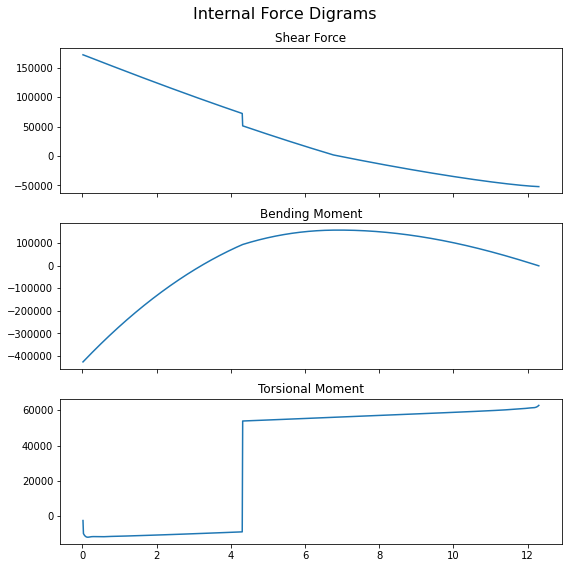
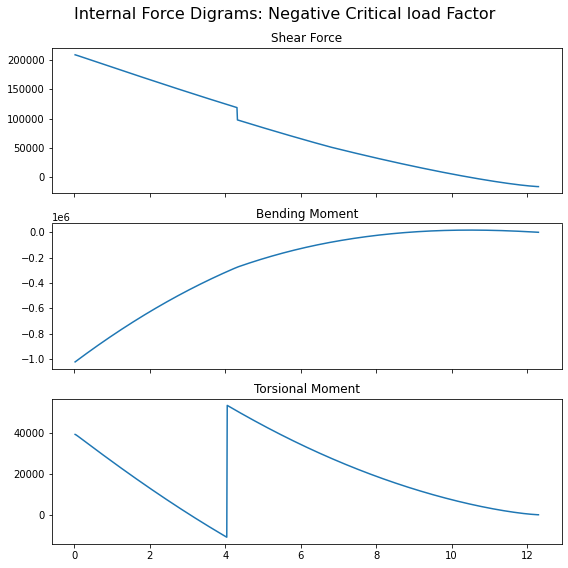
more diagrams

diff --git a/WP4/WP4_1 Python/WP4_XFLR5_Raw_Data.py b/WP4/WP4_1 Python/WP4_XFLR5_Raw_Data.py
@@ -4,22 +4,37 @@ import matplotlib.pyplot as plt
 from scipy import interpolate
 from scipy.integrate import simps, cumtrapz
 #exec(open("Aircraft.py").read())
+#print(Wingspan) #testing works, but find a better implementation method. Ignore use of parametric python file for now.
+
+#constants
+g = 9.80665
+#wing
+b = 24.63
+taper = 0.4
+S_wing = 76.29
 
 #sweep angle calculation
-b = 24.63
 Sw_ca = np.arctan( np.tan (25 / 180 * np.pi ) -  ( 0.468 * ( 2 * 4.41 ) / b ) * ( 1 - 0.4 ) )
 
-#dynamic pressure and FLIGHT CONDITIONS
-v_cruise = 243 #this may change depending on critical loading case
-rho_cruise = 0.3678 #this may change depending on critical loading case
+#aircraft weight
+W_pl = 9800*g
+W_oe = 20175*g
+W_mto = 33139*g
+W_f = W_mto - W_oe-W_pl
+W_ac_lst = [W_oe, W_mto, W_oe+W_pl]
+
+
+###----HARD-CODE------ ### (START)
+W_ac = W_ac_lst[1] #(0,1,2) #aircraft weight #FIXED
+is_fuel = True #(True, False) #fuel in wing boolean #FIXED
+v_cruise = 200 #velocity #this may change depending on critical loading case #FIXED: LOWEST speed that gives 2.5
+rho_cruise =1.225  #density #this may change depending on critical loading case
+###----HARD-CODE------ ### (END)
+
+
+#dynamic pressure
 q_cruise = 0.5 * rho_cruise * v_cruise ** 2 
 #q_cruise = 0.5 * rho_cruise * v_cruise ** 2 * np.cos( Sw_ca )  #sweep does not affect dynamic pressure
-
-#fuel in wing boolean:
-is_fuel = True
-
-
-#print(Wingspan) #testing works, but find a better implementation method. Ignore use of parametric python file for now.
 
 #import XFLR5 data for AOA 0 and 10 deg
 aero_data_AOA_0 = np.genfromtxt('MainWing_a=0.00_v=10.00ms.txt', dtype = float, skip_header=2)
@@ -67,20 +82,14 @@ def interpolation(xlst_init,ylst_init,Cllst_init, Cdlst_init, Cmlst_init):
 
 
 #aerodynamics loads (dimensional)
-def aero_loads(xlst, ylst,Cllst, Cdlst, Cmlst):
-    g = 9.80665
+def aero_loads(xlst, ylst,Cllst, Cdlst, Cmlst):    
     
-    #wing
-    taper = 0.4
-    b = 24.63
-    
-    #fuel weight
-    W_fuel_tot =  12964*g
     #based on ref data, approx. 30% of fuel weight is stored in wing (from root to 0.55/2 spar: consider inner tank only)
     y_fuel = b /2*0.55
     
+    #fuel weight
     if is_fuel:
-        W_fuel_half_wing = 0.3*W_fuel_tot
+        W_fuel_half_wing = 0.3*W_f
     else:
         W_fuel_half_wing = 0
         
@@ -208,23 +217,18 @@ def torsion(ylst, xlst):
 xlst_0,ylst_0,Cllst_0, Cdlst_0, Cmlst_0 = aero_coefficient(aero_data_AOA_0)
 xlst_10,ylst_10,Cllst_10, Cdlst_10, Cmlst_10 = aero_coefficient(aero_data_AOA_10)
 
+#interpolation of above aero coefficients (AOA=0, 10)
+xlst_0,ylst_0,Cllst_0, Cdlst_0, Cmlst_0 = interpolation(xlst_0,ylst_0,Cllst_0, Cdlst_0, Cmlst_0)
+xlst_10,ylst_10,Cllst_10, Cdlst_10, Cmlst_10 = interpolation(xlst_10,ylst_10,Cllst_10, Cdlst_10, Cmlst_10)
+
 #add form drag
 Cd_0_form = 0.01
 Cd_10_form = 0.02
 Cdlst_0 += Cd_0_form
 Cdlst_0 += Cd_10_form
 
-#interpolation of above aero coefficients (AOA=0, 10)
-xlst_0,ylst_0,Cllst_0, Cdlst_0, Cmlst_0 = interpolation(xlst_0,ylst_0,Cllst_0, Cdlst_0, Cmlst_0)
-xlst_10,ylst_10,Cllst_10, Cdlst_10, Cmlst_10 = interpolation(xlst_10,ylst_10,Cllst_10, Cdlst_10, Cmlst_10)
-
-
-#lists for aerodynamic loads (AOA=0, 10)
-Llst_0,Dlst_0,Mlst_0, Fzreslst_0,Ltot_0, Dtot_0, Mtot_0 = aero_loads(xlst_0, ylst_0,Cllst_0, Cdlst_0, Cmlst_0)
-Llst_10,Dlst_10,Mlst_10, Fzreslst_10, Ltot_10, Dtot_10, Mtot_10 = aero_loads(xlst_10, ylst_10,Cllst_10, Cdlst_10, Cmlst_10)
-
 #design lift coefficient distribution
-Cltot_des = 0.372976647
+Cltot_des = 1.1*W_ac/(q_cruise*S_wing)#0.372976647 #not a constant!
 Cltot_0 = 0.264851185
 Cltot_10 = 1.324255925
 
@@ -256,6 +260,10 @@ alpha_des_negative = np.arcsin((np.sum(Cllst_des*N_z_negative)-np.sum(Cllst_0))/
 
 
 #print(np.rad2deg(alpha_des_positive), np.rad2deg(alpha_des_negative)) #testing
+
+#lists for aerodynamic loads (AOA=0, 10)
+Llst_0,Dlst_0,Mlst_0, Fzreslst_0,Ltot_0, Dtot_0, Mtot_0 = aero_loads(xlst_0, ylst_0,Cllst_0, Cdlst_0, Cmlst_0)
+Llst_10,Dlst_10,Mlst_10, Fzreslst_10, Ltot_10, Dtot_10, Mtot_10 = aero_loads(xlst_10, ylst_10,Cllst_10, Cdlst_10, Cmlst_10)
 
 #lists for aerodynamic loads (desgin point)
 Llst_des,Dlst_des,Mlst_des, Fzreslst_des,Ltot_des, Dtot_des, Mtot_des = aero_loads(xlst_0, ylst_0,Cllst_des, Cdlst_des, Cmlst_des)

diff --git a/WP4/WP4_1 Python/WP4_1_main.py b/WP4/WP4_1 Python/WP4_1_main.py
@@ -3,7 +3,6 @@ import matplotlib.pyplot as plt
 from WP4_XFLR5_Raw_Data import xlst_0, ylst_0, Llst_des, Llst_negcrit, Llst_poscrit, Dlst_des, Dlst_negcrit, Dlst_poscrit, Fzreslst_des, Fzreslst_poscrit, Fzreslst_negcrit,Ltot_des, Ltot_poscrit, Ltot_negcrit, alpha_des, alpha_des_negative, alpha_des_positive
 from CG_wingboxFRANK import CG_xList, CG_zList
 
-
 #shear
 Vres_des=shear(ylst_0,Llst_des, Fzreslst_des, Ltot_des)
 Vres_poscrit=shear(ylst_0,Llst_poscrit, Fzreslst_poscrit, Ltot_poscrit)
@@ -21,7 +20,7 @@ TMres_poscrit=torsion(xlst_0, alpha_des_positive, Llst_poscrit, Dlst_poscrit, yl
 TMres_negcrit=torsion(xlst_0, alpha_des_negative, Llst_negcrit, Dlst_negcrit, ylst_0, CG_xList, CG_zList)
 
 
-def internal_plots(ylst,Vlst, BMlst, TMlst):
+def internal_plots(ylst,Vlst, BMlst, TMlst, title):
     
     #print('Total lift is', Ltot, ' ' ,'Total drag is', Dtot, ' ' , 'Total moment is', Mtot, ' ' ,sep ='\n')
 
@@ -32,7 +31,7 @@ def internal_plots(ylst,Vlst, BMlst, TMlst):
     axs[1].set_title('Bending Moment')
     axs[2].plot(ylst,TMlst)
     axs[2].set_title('Torsional Moment')
-    fig.suptitle('Internal Force Digrams', fontsize=16)
+    fig.suptitle('Internal Force Digrams: '+title, fontsize=16)
     fig.tight_layout()
     plt.show()
     return()
@@ -41,8 +40,8 @@ def internal_plots(ylst,Vlst, BMlst, TMlst):
 #internal load plots: design and critical conditions (uncomment)
 
 #internal_plots(ylst_0,Vres_des, BMres_des, TMres_des)
-internal_plots(ylst_0, Vres_poscrit,BMres_poscrit,TMres_poscrit)
-internal_plots(ylst_0, Vres_negcrit,BMres_negcrit,TMres_negcrit)
+internal_plots(ylst_0, Vres_poscrit,BMres_poscrit,TMres_poscrit,'Positive Critical load Factor')
+internal_plots(ylst_0, Vres_negcrit,BMres_negcrit,TMres_negcrit, 'Negative Critical load Factor')
 
 
 

diff --git a/WP4/WP4_1 Python/WP4_1_flight_cond.py b/WP4/WP4_1 Python/WP4_1_flight_cond.py
@@ -1,0 +1,36 @@
+i = int(input('Type 1 for OEW; Type 2 for OEW+MPL+fuel; Type 3 for OEW+MPL'))
+i -= 1
+rho = 0.3678 #keep it for cruise currently
+speed = 243 #big fucking HAHA cos it is continuous, take cruise speed for now
+
+
+
+
+class flight_cond:
+    
+    g = 9.80665
+    m_pl = 9800
+    m_oe = 20175
+    m_mto = 33139
+    m_f = m_mto - m_oe-m_pl
+    
+    W_ac_lst = [m_oe, m_mto, m_oe+m_pl]*g
+    W_fuel_half_wing_lst = [0, 0.3*m_f, 0]
+    
+    n_pos = 2.5
+    n_neg = -1
+    
+    S_wing = 76.29
+    
+    def __init__(self, i, rho): #only vary i and rho for sake of simplicity #take speed as discrete steps for now (v_a, v_cruise, v_dive). Later modify to cotinuous...
+        self.W_ac = self.W_ac_lst[i]*self.g #requires modification
+        self.rho = rho
+        self.speed = speed  
+    def wing_fuel(self):
+        W_fuel_half_wing = self.W_fuel_half_wing_lst[i] #use self.var_name to call variables of the class without passing them as arguments in function
+        return(W_fuel_half_wing)
+    def C_l(self):
+        C_l = self.W_ac/(0.5*self.rho*self.speed**2*self.S_wing)
+        return(C_l)
+        
+        
